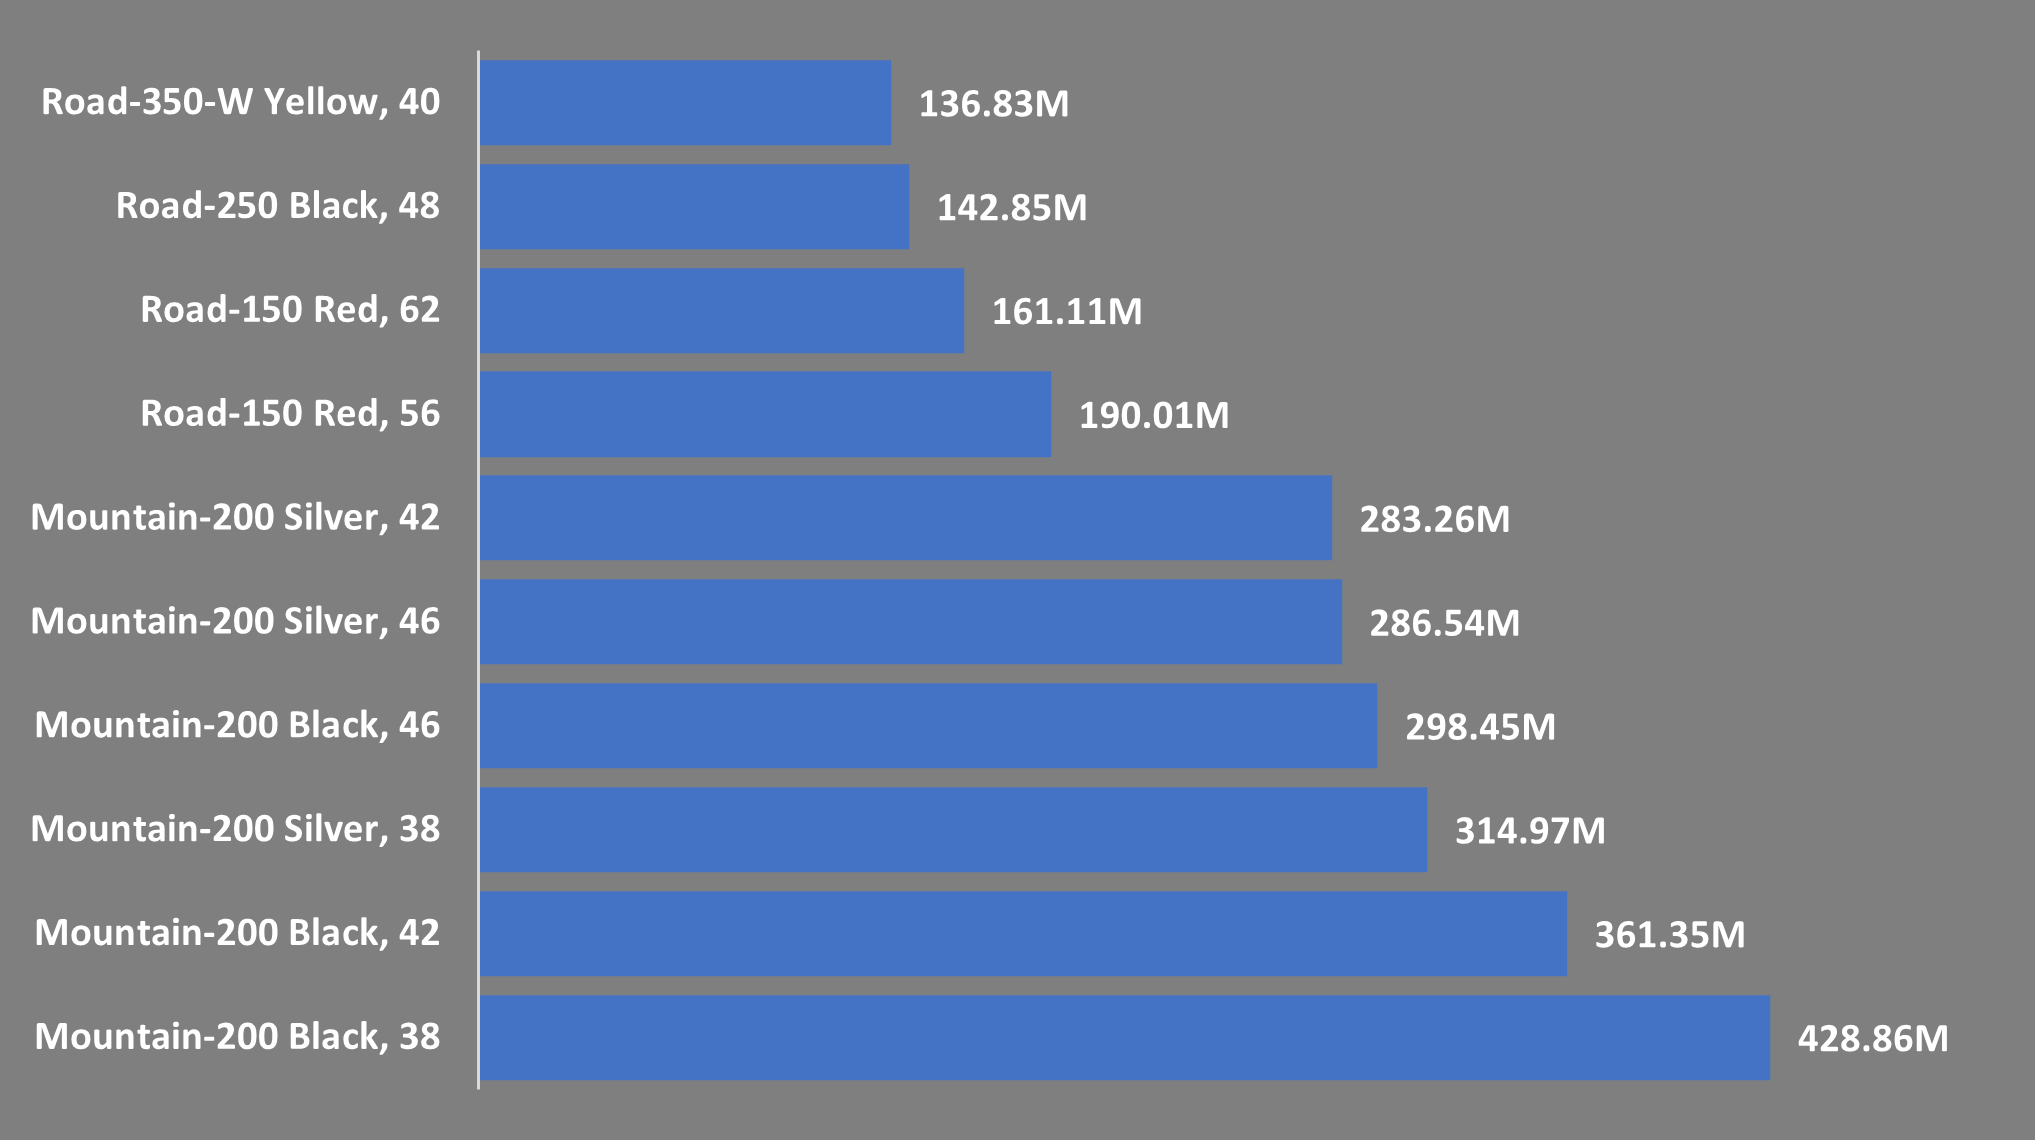
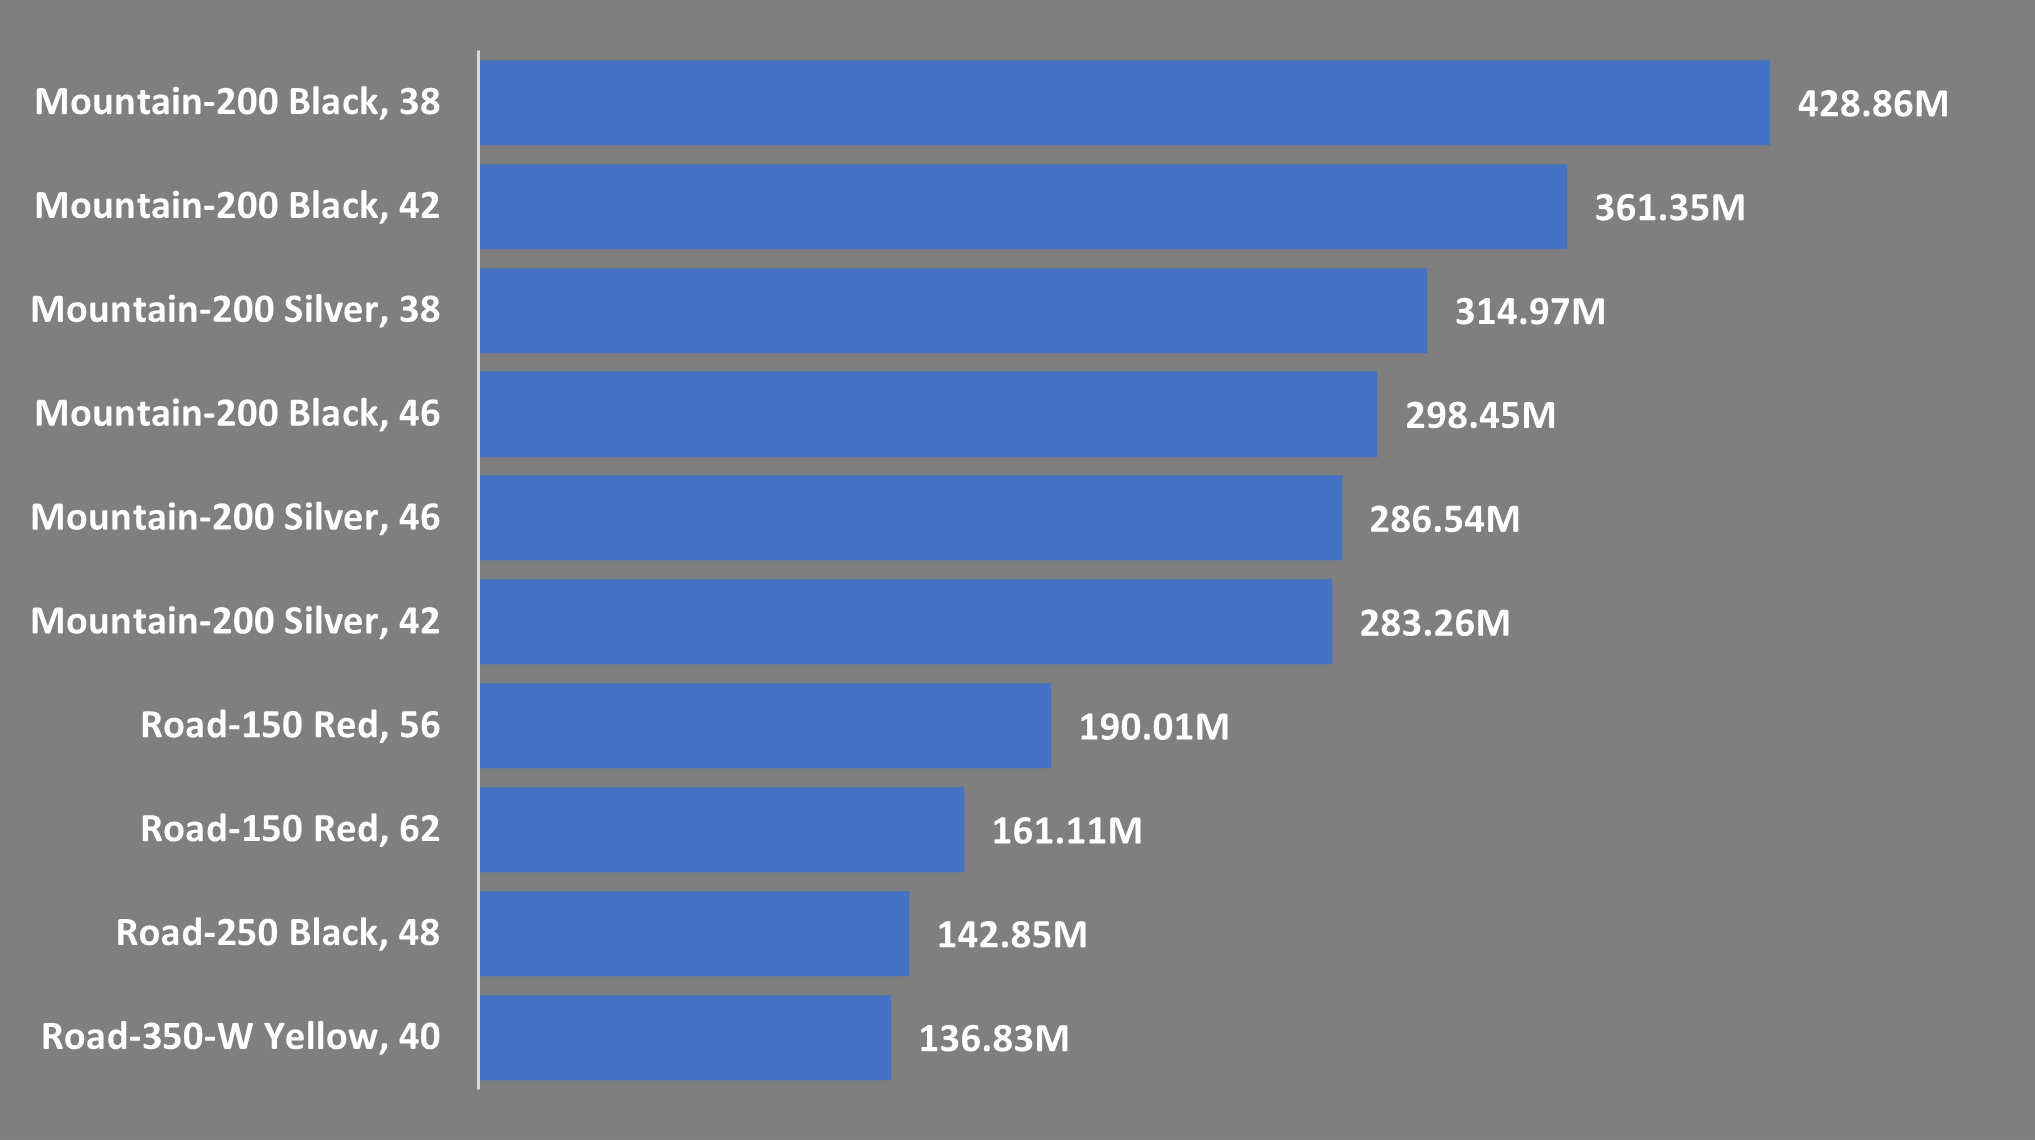
Updated the S/N

diff --git a/README.md b/README.md
@@ -250,7 +250,7 @@ ORDER BY
 
 <img src="https://github.com/DanielBayo/AdventureWork_SQL_Analysis/blob/main/Q6.png" alt="Top 10 Product by revenue" width="500"/>
 
-### 6. What are the Bottom 10 Product by Revenue?
+### 7. What are the Bottom 10 Product by Revenue?
 
 **The query:**
 
@@ -286,7 +286,11 @@ ORDER BY
 |LL Road Tire	|$22,435.56|
 |ML Road Tire	|$23,140.74|
 
-### 7. What is Revenue by Sales Representative?
+**The Visual:**
+
+<img src="https://github.com/DanielBayo/AdventureWork_SQL_Analysis/blob/main/Q7.png" alt="Bottom 10 Product by revenue" width="500"/>
+
+### 8. What is Revenue by Sales Representative?
 
 **The query:**
 
@@ -333,7 +337,7 @@ ORDER BY
 |Lynn Tsoflias|	lynn0@adventure-works.com|	Australia|	$1,421,810.9252|
 
 
-### 8. What is the Internet Sales Revenue by Year_Month?
+### 9. What is the Internet Sales Revenue by Year_Month?
 
 **The query:**
 
@@ -398,7 +402,7 @@ ORDER BY
 |1	|2011	|January	|$469,823.91|
 |12	|2010	|December	|$43,421.04|
 
-### 9. What is the Reseller Sales Revenue by Year_Month?
+### 10. What is the Reseller Sales Revenue by Year_Month?
 
 **The query:**
 
@@ -457,7 +461,7 @@ ORDER BY
 |4	|2011	|April		|$1,538,408.31|
 |3	|2011	|March		|$489,328.58|
 
-### 10. What is the Month over Month Growth for Internet sales since the beginning of the Business?
+### 11. What is the Month over Month Growth for Internet sales since the beginning of the Business?
 
 **The query:**
 
@@ -519,7 +523,7 @@ ORDER BY [Year] DESC,
 |2011|	1	|$469,823.91|	982.02%|
 |2010|	12	|$43,421.04	|          |
 
-### 11. What is the Month over Month Growth for Reseller sales since the beginning of the Business?
+### 12. What is the Month over Month Growth for Reseller sales since the beginning of the Business?
 
 **The query:**
 
@@ -577,7 +581,7 @@ ORDER BY [Year] DESC,
 | 2010 | 12    | $489,328.58     | %          |
 
 
-### 12. What is the Monthly Active Customers for Internet Sales ?
+### 13. What is the Monthly Active Customers for Internet Sales ?
 
 **The query:**
 
@@ -642,7 +646,7 @@ ORDER BY
 | 1                 | 2011 | January   | 144           |
 | 12                | 2010 | December  | 14            |
 
-### 13. What is the Monthly Active Reseller for Reseller Sales ?
+### 14. What is the Monthly Active Reseller for Reseller Sales ?
 
 **The query:**
 
